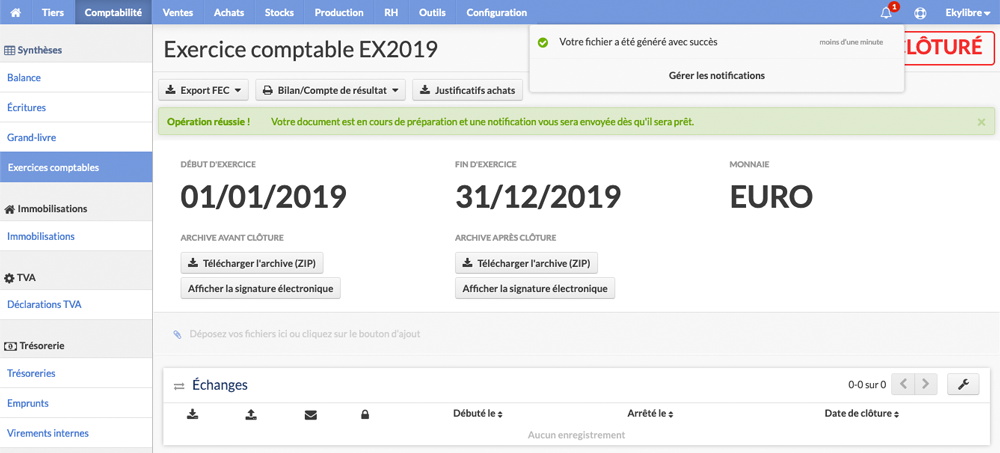
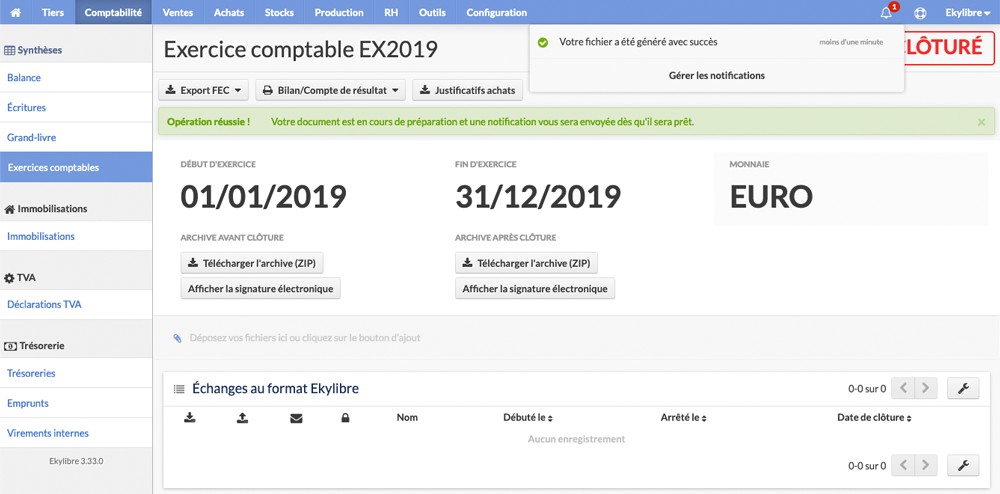
Justif achats + màj Compta

diff --git a/content/fr/chapitre10.html b/content/fr/chapitre10.html
@@ -148,6 +148,7 @@
                            <li><a href="../chapitre6#reception" target="_self">Réception des commandes</a></li>
                            <li><a href="../chapitre6#facturation" target="_self">Facturation des achats</a></li>
                            <li><a href="../chapitre6#decaissements" target="_self">Décaissements et lots de décaissements</a></li>
+						   <li><a href="../chapitre6#justif-achats" target="_self">Justificatifs d'achats</a></li>
                            <li><a href="../chapitre6#stockage" target="_self">Zones de stockage</a></li>
                         </div>
                      </ul>
@@ -553,7 +554,7 @@
          <img src="../images/commun/step6.svg" alt="6" width="52" />
       </div>
       <div class="process-txt">
-         <span class="titre-advice">Affichez les notifications</span>
+         <span class="titre-advice">Affichez la nouvelle notification</span>
          <p>Une fois que la barre d'avancement disparaît, la pastille rouge<img src="../images/commun/marker.svg" alt="Notification" height="20" class="align-icone icone-marge-gauche icone-marge-droite">en haut à droite de la cloche<img src="../images/commun/bell-o-blue.svg" alt="Cloche" height="20" class="align-icone icone-marge-gauche icone-marge-droite">vous indique qu'une opération interne a été effectuée par l'application. Cliquez sur celle-ci pour afficher la notification. En cas d'erreur, vous serez informé&#40;e&#41; de la nature de celle-ci.</p>
          <p class="max-img-process">
             <img src="../images/chapitre10/import-plan6.png" class="contour-img" alt="Affichage notifications" data-action="zoom" />
@@ -697,7 +698,7 @@
          <img src="../images/commun/step6.svg" alt="6" width="52" />
       </div>
       <div class="process-txt">
-         <span class="titre-advice">Affichez les notifications</span>
+         <span class="titre-advice">Affichez la nouvelle notification</span>
          <p>Une fois que la barre d'avancement disparaît, la pastille rouge<img src="../images/commun/marker.svg" alt="Notification" height="20" class="align-icone icone-marge-gauche icone-marge-droite">en haut à droite de la cloche<img src="../images/commun/bell-o-blue.svg" alt="Cloche" height="20" class="align-icone icone-marge-gauche icone-marge-droite">vous indique qu'une opération interne a été effectuée par l'application. Cliquez sur celle-ci pour afficher la notification. En cas d'erreur, vous serez informé&#40;e&#41; de la nature de celle-ci.</p>
          <p class="max-img-process">
             <img src="../images/chapitre10/import-tiers6.png" class="contour-img" alt="Affichage notifications" data-action="zoom" />
@@ -1194,7 +1195,7 @@
          <img src="../images/commun/step6.svg" alt="6" width="52" />
       </div>
       <div class="process-txt">
-         <span class="titre-advice">Affichez les notifications</span>
+         <span class="titre-advice">Affichez la nouvelle notification</span>
          <p>Une fois que la barre d'avancement disparaît, la pastille rouge<img src="../images/commun/marker.svg" alt="Notification" height="20" class="align-icone icone-marge-gauche icone-marge-droite">en haut à droite de la cloche<img src="../images/commun/bell-o-blue.svg" alt="Cloche" height="20" class="align-icone icone-marge-gauche icone-marge-droite">vous indique qu'une opération interne a été effectuée par l'application. Cliquez sur celle-ci pour afficher la notification. En cas d'erreur, vous serez informé&#40;e&#41; de la nature de celle-ci.</p>
          <p class="max-img-process">
             <img src="../images/chapitre10/import-variants6.png" class="contour-img" alt="Affichage notifications" data-action="zoom" />
@@ -1335,7 +1336,7 @@
          <img src="../images/commun/step6.svg" alt="6" width="52" />
       </div>
       <div class="process-txt">
-         <span class="titre-advice">Affichez les notifications</span>
+         <span class="titre-advice">Affichez la nouvelle notification</span>
          <p>Une fois que la barre d'avancement disparaît, la pastille rouge<img src="../images/commun/marker.svg" alt="Notification" height="20" class="align-icone icone-marge-gauche icone-marge-droite">en haut à droite de la cloche<img src="../images/commun/bell-o-blue.svg" alt="Cloche" height="20" class="align-icone icone-marge-gauche icone-marge-droite">vous indique qu'une opération interne a été effectuée par l'application. Cliquez sur celle-ci pour afficher la notification. En cas d'erreur, vous serez informé&#40;e&#41; de la nature de celle-ci.</p>
          <p class="max-img-process">
             <img src="../images/chapitre10/import-equip6.png" class="contour-img" alt="Affichage notifications" data-action="zoom" />
@@ -1482,7 +1483,7 @@
          <img src="../images/commun/step6.svg" alt="6" width="52" />
       </div>
       <div class="process-txt">
-         <span class="titre-advice">Affichez les notifications</span>
+         <span class="titre-advice">Affichez la nouvelle notification</span>
          <p>Une fois que la barre d'avancement disparaît, la pastille rouge<img src="../images/commun/marker.svg" alt="Notification" height="20" class="align-icone icone-marge-gauche icone-marge-droite">en haut à droite de la cloche<img src="../images/commun/bell-o-blue.svg" alt="Cloche" height="20" class="align-icone icone-marge-gauche icone-marge-droite">vous indique qu'une opération interne a été effectuée par l'application. Cliquez sur celle-ci pour afficher la notification. En cas d'erreur, vous serez informé&#40;e&#41; de la nature de celle-ci.</p>
          <p class="max-img-process">
             <img src="../images/chapitre10/import-zones6.png" class="contour-img" alt="Affichage notifications" data-action="zoom" />
@@ -1625,7 +1626,7 @@
          <img src="../images/commun/step6.svg" alt="6" width="52" />
       </div>
       <div class="process-txt">
-         <span class="titre-advice">Affichez les notifications</span>
+         <span class="titre-advice">Affichez la nouvelle notification</span>
          <p>Une fois que la barre d'avancement disparaît, la pastille rouge<img src="../images/commun/marker.svg" alt="Notification" height="20" class="align-icone icone-marge-gauche icone-marge-droite">en haut à droite de la cloche<img src="../images/commun/bell-o-blue.svg" alt="Cloche" height="20" class="align-icone icone-marge-gauche icone-marge-droite">vous indique qu'une opération interne a été effectuée par l'application. Cliquez sur celle-ci pour afficher la notification. En cas d'erreur, vous serez informé&#40;e&#41; de la nature de celle-ci.</p>
          <p class="max-img-process">
             <img src="../images/chapitre10/agro-edi6.png" class="contour-img" alt="Affichage notifications" data-action="zoom" />
@@ -1779,7 +1780,7 @@
          <img src="../images/commun/step7.svg" alt="7" width="52" />
       </div>
       <div class="process-txt">
-         <span class="titre-advice">Affichez les notifications</span>
+         <span class="titre-advice">Affichez la nouvelle notification</span>
          <p>Une fois que la barre d'avancement disparaît, la pastille rouge<img src="../images/commun/marker.svg" alt="Notification" height="20" class="align-icone icone-marge-gauche icone-marge-droite">en haut à droite de la cloche<img src="../images/commun/bell-o-blue.svg" alt="Cloche" height="20" class="align-icone icone-marge-gauche icone-marge-droite">vous indique qu'une opération interne a été effectuée par l'application. Cliquez sur celle-ci pour afficher la notification. En cas d'erreur, vous serez informé&#40;e&#41; de la nature de celle-ci.</p>
          <p class="max-img-process">
             <img src="../images/chapitre10/isapaye9.png" class="contour-img" alt="Affichage notifications" data-action="zoom" />
@@ -1905,7 +1906,7 @@
          <img src="../images/commun/step6.svg" alt="6" width="52" />
       </div>
       <div class="process-txt">
-         <span class="titre-advice">Affichez les notifications</span>
+         <span class="titre-advice">Affichez la nouvelle notification</span>
          <p>Une fois que la barre d'avancement disparaît, la pastille rouge<img src="../images/commun/marker.svg" alt="Notification" height="20" class="align-icone icone-marge-gauche icone-marge-droite">en haut à droite de la cloche<img src="../images/commun/bell-o-blue.svg" alt="Cloche" height="20" class="align-icone icone-marge-gauche icone-marge-droite">vous indique qu'une opération interne a été effectuée par l'application. Cliquez sur celle-ci pour afficher la notification. En cas d'erreur, vous serez informé&#40;e&#41; de la nature de celle-ci.</p>
          <p class="max-img-process">
             <img src="../images/chapitre10/telepac7.png" class="contour-img" alt="Affichage notifications" data-action="zoom" />
@@ -1981,7 +1982,7 @@
          <img src="../images/commun/step4.svg" alt="4" width="52" />
       </div>
       <div class="process-txt">
-         <span class="titre-advice">Affichez les notifications</span>
+         <span class="titre-advice">Affichez la nouvelle notification</span>
          <p>La pastille rouge<img src="../images/commun/marker.svg" alt="Notification" height="20" class="align-icone icone-marge-gauche icone-marge-droite">en haut à droite de la cloche<img src="../images/commun/bell-o-blue.svg" alt="Cloche" height="20" class="align-icone icone-marge-gauche icone-marge-droite">vous indique qu'une opération interne a été effectuée par l'application. Cliquez sur celle-ci pour afficher la notification.</p>
          <p class="max-img-process">
             <img src="../images/chapitre10/regist-interv3.png" class="contour-img" alt="Affichage de la notification" data-action="zoom" />
@@ -2048,7 +2049,7 @@
          <img src="../images/commun/step4.svg" alt="4" width="52" />
       </div>
       <div class="process-txt">
-         <span class="titre-advice">Affichez les notifications</span>
+         <span class="titre-advice">Affichez la nouvelle notification</span>
          <p>La pastille rouge<img src="../images/commun/marker.svg" alt="Notification" height="20" class="align-icone icone-marge-gauche icone-marge-droite">en haut à droite de la cloche<img src="../images/commun/bell-o-blue.svg" alt="Cloche" height="20" class="align-icone icone-marge-gauche icone-marge-droite">vous indique qu'une opération interne a été effectuée par l'application. Cliquez sur celle-ci pour afficher la notification.</p>
          <p class="max-img-process">
             <img src="../images/chapitre10/regist-phyto3.png" class="contour-img" alt="Affichage de la notification" data-action="zoom" />
@@ -2122,7 +2123,7 @@
          <img src="../images/commun/step4.svg" alt="4" width="52" />
       </div>
       <div class="process-txt">
-         <span class="titre-advice">Affichez les notifications</span>
+         <span class="titre-advice">Affichez la nouvelle notification</span>
          <p>La pastille rouge<img src="../images/commun/marker2.svg" alt="Notification" height="20" class="align-icone icone-marge-gauche icone-marge-droite">en haut à droite de la cloche<img src="../images/commun/bell-o-blue.svg" alt="Cloche" height="20" class="align-icone icone-marge-gauche icone-marge-droite">vous indique qu'une opération interne a été effectuée par l'application. Cliquez sur celle-ci pour afficher la&#40;les&#41; notification&#40;s&#41;.</p>
          <p class="max-img-process">
             <img src="../images/chapitre10/fec6.png" class="contour-img" alt="Affichage des notifications" data-action="zoom" />

diff --git a/content/fr/chapitre6.html b/content/fr/chapitre6.html
@@ -148,6 +148,7 @@
                            <li><a href="#reception" target="_self">Réception des commandes</a></li>
                            <li><a href="#facturation" target="_self">Facturation des achats</a></li>
                            <li><a href="#decaissements" target="_self">Décaissements et lots de décaissements</a></li>
+						   <li><a href="#justif-achats" target="_self">Justificatifs d'achats</a></li>
                            <li><a href="#stockage" target="_self">Zones de stockage</a></li>
                         </div>
                      </ul>
@@ -1459,9 +1460,75 @@
             <img src="../images/chapitre6/lots9.png" class="contour-img" alt="Création du nouveau lot" data-action="zoom" />
          </p>
       </div>
+	  <h6>Guide de prise en main • Achats • Justificatifs d'achats</h6>
+      <a class="slice-process" id="justif-achats"></a>
+      <h2 class="texte aerateur">g - Justificatifs d'achats</h2>
+      <p class="texte">Cet export permet de rassembler, dans une archive ZIP, les fichiers PDF énumérant, pour chaque mois, l'ensemble des achats réalisés durant un exercice comptable, avec ou sans les justificatifs joints par glisser-déposer ou attachés lors de la saisie des factures.</p>
+	  <p class="texte">Le processus suivant vous guide pour produire les justificatifs d'achats.</p>
+	  <div class="floating-box process">
+         <img src="../images/commun/step1.svg" alt="1" width="52" />
+      </div>
+      <div class="process-txt">
+         <span class="titre-advice">Accédez aux exercices comptables</span>
+         <p>
+            Cliquez sur le lien "Comptabilité" dans le "Menu principal" ou sur le bouton "Comptabilité" de la page d'accueil&nbsp;:
+         </p>
+         <p align="center"><img src="../images/chapitre6/comptabilite.svg" alt="Comptabilité" width="60"></p>
+         <p>Dans la barre latérale du module, cliquez sur "Exercices comptables" dans la section "Synthèses" symbolisée par l'icône d'un tableau<img src="../images/chapitre6/table.svg" alt="Tableau" height="20" class="align-icone icone-marge-gauche">.</p>
+         <p class="max-img-process">
+            <img src="../images/chapitre6/justif-achats1.png" class="contour-img" alt="Exercices comptables" data-action="zoom" />
+         </p>
+      </div>
+      <br />
+      <div class="floating-box process">
+         <img src="../images/commun/step2.svg" alt="2" width="52" />
+      </div>
+      <div class="process-txt">
+         <span class="titre-advice">Choisissez un exercice comptable</span>
+         <p>Sélectionnez un exercice comptable dans la liste et cliquez sur son code pour l'afficher.</p>
+         <p class="max-img-process">
+            <img src="../images/chapitre6/justif-achats2.png" class="contour-img" alt="Affichage de l'exercice" data-action="zoom" />
+         </p>
+      </div>
+      <br />
+      <div class="floating-box process">
+         <img src="../images/commun/step3.svg" alt="3" width="52" />
+      </div>
+      <div class="process-txt">
+         <span class="titre-advice">Lancez la fabrication de l'archive</span>
+         <p>Cliquez sur le bouton<img src="../images/chapitre6/justif-achats.svg" alt="Justificatifs achats" class="btn-gris icone-marge-gauche icone-marge-droite">en haut à droite de la fenêtre principale pour générer le fichier.</p>
+         <p class="max-img-process">
+            <img src="../images/chapitre6/justif-achats3.png" class="contour-img" alt="Lancement export" data-action="zoom" />
+         </p>
+		 <p>Patientez quelques instants car la fabrication de l'archive peut prendre plus ou moins de temps en fonction du nombre de factures d'achats et de justificatifs à traiter.</p>
+      </div>
+      <br />
+      <div class="floating-box process">
+         <img src="../images/commun/step4.svg" alt="4" width="52" />
+      </div>
+      <div class="process-txt">
+         <span class="titre-advice">Affichez la nouvelle notification</span>
+         <p>Patientez quelques instants. La pastille rouge<img src="../images/commun/marker.svg" alt="Notification" height="20" class="align-icone icone-marge-gauche icone-marge-droite">en haut à droite de la cloche<img src="../images/commun/bell-o-blue.svg" alt="Cloche" height="20" class="align-icone icone-marge-gauche icone-marge-droite">vous indique qu'une opération interne a été effectuée par l'application. Cliquez sur celle-ci pour afficher la notification.</p>
+         <p class="max-img-process">
+            <img src="../images/chapitre6/justif-achats4.png" class="contour-img" alt="Affichage de la notification" data-action="zoom" />
+         </p>
+      </div>
+      <br />
+	  <div class="floating-box process">
+         <img src="../images/commun/step5.svg" alt="5" width="52" />
+      </div>
+      <div class="process-txt">
+         <span class="titre-advice">Obtenez l'archive des justificatifs</span>
+         <p>Cliquez sur le lien "Votre fichier a été généré avec succès" pour obtenir les informations du nouvel export.</p>
+         <p class="max-img-process">
+            <img src="../images/chapitre6/justif-achats5.png" class="contour-img" alt="Archive justificatifs" data-action="zoom" />
+         </p>
+		 <p>Cliquez sur la vignette pour télécharger l'archive ZIP. Cette archive contient un fichier PDF pour chaque mois durant lequel une facture d'achat a été enregistrée. Lorsqu'un justificatif d'achat a été associé à une facture, il est présent dans le document PDF généré. Si aucun justificatif d'achat n'est disponible, les références de la facture sont consignées avec la mention "Aucun justificatif n'est attaché à cette facture".</p>
+         <p>Notez que le fichier reste accessible à tout moment via le lien <a class="avoid-clicks" href="../chapitre10#ged" target="_self">"Mes documents"</a> dans la section "Archives"<img src="../images/commun/archive.svg" alt="Archives" height="20" class="align-icone icone-marge-gauche icone-marge-droite">du module "Outils".</p>
+      </div>
       <h6>Guide de prise en main • Achats • Zones de stockage</h6>
       <a class="slice-process" id="stockage"></a>
-      <h2 class="texte aerateur">g - Zones de stockage</h2>
+      <h2 class="texte aerateur">h - Zones de stockage</h2>
       <p class="texte">Si vous avez omis l'étape de création des bâtiments et des aires de stockage dans l'assistant de démarrage, il est toujours possible d'en ajouter pour permettre les réceptions de marchandises. Il n'est pas nécessaire de dessiner de nouveaux bâtiments mais seulement leurs subdivisions ainsi que les emplacements présentant une importance significative dans l'exploitation &#40;ces zones permettront également l'enregistrement de certaines interventions&#41;.</p>
 	  <p class="texte">Notez que vous pouvez disposer de nouvelles zones de stockage, sans les dessiner, grâce à l'import d'un fichier au format CSV, comme expliqué dans le <a class="avoid-clicks" href="../chapitre10#import-zones" target="_self">chapitre 10 - Outils</a>.</p>
       <p class="texte">

diff --git a/content/fr/chapitre5.html b/content/fr/chapitre5.html
@@ -153,6 +153,7 @@
                            <li><a href="../chapitre6#reception" target="_self">Réception des commandes</a></li>
                            <li><a href="../chapitre6#facturation" target="_self">Facturation des achats</a></li>
                            <li><a href="../chapitre6#decaissements" target="_self">Décaissements et lots de décaissements</a></li>
+						   <li><a href="../chapitre6#justif-achats" target="_self">Justificatifs d'achats</a></li>
                            <li><a href="../chapitre6#stockage" target="_self">Zones de stockage</a></li>
                         </div>
                      </ul>
@@ -1160,7 +1161,7 @@
          <img src="../images/commun/step3.svg" alt="3" width="52" />
       </div>
       <div class="process-txt">
-         <span class="titre-advice">Affichez les notifications</span>
+         <span class="titre-advice">Affichez la nouvelle notification</span>
          <p>Patientez quelques instants. La pastille rouge<img src="../images/commun/marker.svg" alt="Notification" height="20" class="align-icone icone-marge-gauche icone-marge-droite">en haut à droite de la cloche<img src="../images/commun/bell-o-blue.svg" alt="Cloche" height="20" class="align-icone icone-marge-gauche icone-marge-droite">vous indique qu'une opération interne a été effectuée par l'application. Cliquez sur celle-ci pour afficher la notification.</p>
          <p class="max-img-process">
             <img src="../images/chapitre5/centralisateur3.png" class="contour-img" alt="Affichage de la notification" data-action="zoom" />
@@ -1557,8 +1558,8 @@
          <img src="../images/commun/step3.svg" alt="3" width="52" />
       </div>
       <div class="process-txt">
-         <span class="titre-advice">Sélectionnez l'export FEC</span>
-         <p>Cliquez sur le bouton<img src="../images/chapitre5/export-fec.svg" alt="Export FEC" class="btn-gris icone-marge-gauche icone-marge-droite">et sélectionnez, dans la liste déroulante, le format de fichier souhaité.</p>
+         <span class="titre-advice">Sélectionnez le type d'export FEC</span>
+         <p>Cliquez sur le bouton<img src="../images/chapitre5/export-fec.svg" alt="Export FEC" class="btn-gris icone-marge-gauche icone-marge-droite">et choisissez, dans la liste déroulante, le format de fichier souhaité.</p>
          <p>Les abbréviations utilisées sont les suivantes&nbsp;:<br />BA - Bénéfices Agricoles<br />BNC - Bénéfices Non Commerciaux<br />IR - Impôt sur le Revenu</p>
          <p class="max-img-process">
             <img src="../images/chapitre5/exportfec3.png" class="contour-img" alt="Sélection Export FEC" data-action="zoom" />
@@ -1572,7 +1573,7 @@
          <img src="../images/commun/step4.svg" alt="4" width="52" />
       </div>
       <div class="process-txt">
-         <span class="titre-advice">Affichez les notifications</span>
+         <span class="titre-advice">Affichez la nouvelle notification</span>
          <p>Patientez quelques instants. La pastille rouge<img src="../images/commun/marker.svg" alt="Notification" height="20" class="align-icone icone-marge-gauche icone-marge-droite">en haut à droite de la cloche<img src="../images/commun/bell-o-blue.svg" alt="Cloche" height="20" class="align-icone icone-marge-gauche icone-marge-droite">vous indique qu'une opération interne a été effectuée par l'application. Cliquez sur celle-ci pour afficher la notification.</p>
          <p class="max-img-process">
             <img src="../images/chapitre5/exportfec4.png" class="contour-img" alt="Affichage de la notification" data-action="zoom" />
@@ -1588,7 +1589,7 @@
          <p class="max-img-process">
             <img src="../images/chapitre5/exportfec5.png" class="contour-img" alt="Archive FEC - TXT" data-action="zoom" />
          </p>
-		 <p>Cliquez sur la vignette pour télécharger l'archive ZIP. Cette archive contient l'export au format TXT assorti d'un descriptif technique. Cette notice indique l'ensemble des informations nécessaires au traitement des fichiers par l'administration fiscale. Il doit présenter la manière dont il est rempli, avec notamment le nom des champs et le type d'information présent dans chaque champ.</p>
+		 <p>Cliquez sur la vignette pour télécharger l'archive ZIP. Cette archive contient l'export au format TXT assorti d'un descriptif technique. Cette notice présente les grands principes de fonctionnement de la comptabilité dans <strong>Eky</strong>agri et indique l'ensemble des informations nécessaires au traitement des fichiers par l'administration fiscale. Il présente la manière dont ils sont remplis, avec notamment le nom des champs et le type d'information présent dans chaque champ.</p>
 		 <p>En cas de non-conformité, un fichier des erreurs de données est également généré par l'application.</p>
 		 <p>Si le format XML a été choisi pour réaliser l'export, cliquez sur la vignette pour télécharger le document. En cas de non-conformité, il est assorti d'un fichier des erreurs de données et/ou d'un fichier des erreurs de structure.</p>
 		 <p class="max-img-process">
@@ -1643,7 +1644,7 @@
          <img src="../images/commun/step4.svg" alt="4" width="52" />
       </div>
       <div class="process-txt">
-         <span class="titre-advice">Affichez les notifications</span>
+         <span class="titre-advice">Affichez la nouvelle notification</span>
          <p>Patientez quelques instants. La pastille rouge<img src="../images/commun/marker.svg" alt="Notification" height="20" class="align-icone icone-marge-gauche icone-marge-droite">en haut à droite de la cloche<img src="../images/commun/bell-o-blue.svg" alt="Cloche" height="20" class="align-icone icone-marge-gauche icone-marge-droite">vous indique qu'une opération interne a été effectuée par l'application. Cliquez sur celle-ci pour afficher la notification.</p>
          <p class="max-img-process">
             <img src="../images/chapitre5/bilan-cr4.png" class="contour-img" alt="Affichage de la notification" data-action="zoom" />
@@ -3253,7 +3254,7 @@
          <img src="../images/commun/step3.svg" alt="3" width="52" />
       </div>
       <div class="process-txt">
-         <span class="titre-advice">Affichez les notifications</span>
+         <span class="titre-advice">Affichez la nouvelle notification</span>
          <p>Patientez quelques instants. La pastille rouge<img src="../images/commun/marker.svg" alt="Notification" height="20" class="align-icone icone-marge-gauche icone-marge-droite">en haut à droite de la cloche<img src="../images/commun/bell-o-blue.svg" alt="Cloche" height="20" class="align-icone icone-marge-gauche icone-marge-droite">vous indique qu'une opération interne a été effectuée par l'application. Cliquez sur celle-ci pour afficher la notification.</p>
          <p class="max-img-process">
             <img src="../images/chapitre5/etats3.png" class="contour-img" alt="Affichage de la notification" data-action="zoom" />

diff --git a/content/fr/demarrage.html b/content/fr/demarrage.html
@@ -18,7 +18,7 @@
 	  <h1 align="center" class="texte majuscule aerateur-haut aerateur-bas">Guide de prise en main</h1>
       <p align="center"><img src="../images/accueil/icone-doc.png" alt="Documentation Ekylibre" height="100px"></p>
       <p align="center"><img src="../images/accueil/logos-eky.png" alt="Logos Ekylibre" height="80px"></p>
-      <p class="texte">Ce guide a pour but d'aider le nouvel utilisateur à configurer rapidement et correctement les applications développées par Ekylibre &#40;sauf <a href="https://doc.clic.farm/" target="_blank" class="avoid-clicks"><strong>Clic</strong>&#38;Farm</a>&#41; pour son exploitation agricole et de commencer à les utiliser.<br />Cette documentation a été mise à jour le 25 juin 2021. La version au format PDF est datée du 25 juin 2021.</p>
+      <p class="texte">Ce guide a pour but d'aider le nouvel utilisateur à configurer rapidement et correctement les applications développées par Ekylibre &#40;sauf <a href="https://doc.clic.farm/" target="_blank" class="avoid-clicks"><strong>Clic</strong>&#38;Farm</a>&#41; pour son exploitation agricole et de commencer à les utiliser.<br />Cette documentation a été mise à jour le 28 juin 2021. La version au format PDF est datée du 25 juin 2021.</p>
       <div class="info-fond aerateur-haut aerateur-bas">
          <div class="floating-box-info">
             <img src="../images/commun/info.svg" width="100" alt="Info"/>
@@ -226,6 +226,7 @@
                            <li><a href="../chapitre6#reception" target="_self">Réception des commandes</a></li>
                            <li><a href="../chapitre6#facturation" target="_self">Facturation des achats</a></li>
                            <li><a href="../chapitre6#decaissements" target="_self">Décaissements et lots de décaissements</a></li>
+						   <li><a href="../chapitre6#justif-achats" target="_self">Justificatifs d'achats</a></li>
                            <li><a href="../chapitre6#stockage" target="_self">Zones de stockage</a></li>
                         </div>
                      </ul>

diff --git a/content/fr/chapitre4.html b/content/fr/chapitre4.html
@@ -148,6 +148,7 @@
                            <li><a href="../chapitre6#reception" target="_self">Réception des commandes</a></li>
                            <li><a href="../chapitre6#facturation" target="_self">Facturation des achats</a></li>
                            <li><a href="../chapitre6#decaissements" target="_self">Décaissements et lots de décaissements</a></li>
+						   <li><a href="../chapitre6#justif-achats" target="_self">Justificatifs d'achats</a></li>
                            <li><a href="../chapitre6#stockage" target="_self">Zones de stockage</a></li>
                         </div>
                      </ul>
@@ -747,7 +748,7 @@
          <img src="../images/commun/step6.svg" alt="6" width="52" />
       </div>
       <div class="process-txt">
-         <span class="titre-advice">Affichez les notifications</span>
+         <span class="titre-advice">Affichez la nouvelle notification</span>
          <p>Une fois que la barre d'avancement disparaît, la pastille rouge<img src="../images/commun/marker.svg" alt="Notification" height="20" class="align-icone icone-marge-gauche icone-marge-droite">en haut à droite de la cloche<img src="../images/commun/bell-o-blue.svg" alt="Cloche" height="20" class="align-icone icone-marge-gauche icone-marge-droite">vous indique qu'une opération interne a été effectuée par l'application. Cliquez sur celle-ci pour afficher la notification. En cas d'erreur, vous serez informé&#40;e&#41; de la nature de celle-ci.</p>
          <p class="max-img-process">
             <img src="../images/chapitre4/ecran-accueil8.png" class="contour-img" alt="Affichage notifications" data-action="zoom" />

diff --git a/content/fr/ekyviti.html b/content/fr/ekyviti.html
@@ -151,6 +151,7 @@
                            <li><a href="../chapitre6#reception" target="_self">Réception des commandes</a></li>
                            <li><a href="../chapitre6#facturation" target="_self">Facturation des achats</a></li>
                            <li><a href="../chapitre6#decaissements" target="_self">Décaissements et lots de décaissements</a></li>
+						   <li><a href="../chapitre6#justif-achats" target="_self">Justificatifs d'achats</a></li>
                            <li><a href="../chapitre6#stockage" target="_self">Zones de stockage</a></li>
                         </div>
                      </ul>
@@ -520,7 +521,7 @@
          <img src="../images/commun/step6.svg" alt="6" width="52" />
       </div>
       <div class="process-txt">
-         <span class="titre-advice">Affichez les notifications</span>
+         <span class="titre-advice">Affichez la nouvelle notification</span>
          <p>Une fois que la barre d'avancement disparaît, la pastille rouge<img src="../images/commun/marker.svg" alt="Notification" height="20" class="align-icone icone-marge-gauche icone-marge-droite">en haut à droite de la cloche<img src="../images/ekyviti/bell-o-purple.svg" alt="Cloche" height="20" class="align-icone icone-marge-gauche icone-marge-droite">vous indique qu'une opération interne a été effectuée par l'application. Cliquez sur celle-ci pour afficher la notification. En cas d'erreur, vous serez informé&#40;e&#41; de la nature de celle-ci.</p>
          <p class="max-img-process">
             <img src="../images/ekyviti/import-csv7.png" class="contour-img" alt="Affichage notifications" data-action="zoom" />

diff --git a/content/fr/chapitre1.html b/content/fr/chapitre1.html
@@ -152,6 +152,7 @@
                            <li><a href="../chapitre6#reception" target="_self">Réception des commandes</a></li>
                            <li><a href="../chapitre6#facturation" target="_self">Facturation des achats</a></li>
                            <li><a href="../chapitre6#decaissements" target="_self">Décaissements et lots de décaissements</a></li>
+						   <li><a href="../chapitre6#justif-achats" target="_self">Justificatifs d'achats</a></li>
                            <li><a href="../chapitre6#stockage" target="_self">Zones de stockage</a></li>
                         </div>
                      </ul>

diff --git a/content/fr/chapitre2.html b/content/fr/chapitre2.html
@@ -148,6 +148,7 @@
                            <li><a href="../chapitre6#reception" target="_self">Réception des commandes</a></li>
                            <li><a href="../chapitre6#facturation" target="_self">Facturation des achats</a></li>
                            <li><a href="../chapitre6#decaissements" target="_self">Décaissements et lots de décaissements</a></li>
+						   <li><a href="../chapitre6#justif-achats" target="_self">Justificatifs d'achats</a></li>
                            <li><a href="../chapitre6#stockage" target="_self">Zones de stockage</a></li>
                         </div>
                      </ul>

diff --git a/content/fr/chapitre3.html b/content/fr/chapitre3.html
@@ -148,6 +148,7 @@
                            <li><a href="../chapitre6#reception" target="_self">Réception des commandes</a></li>
                            <li><a href="../chapitre6#facturation" target="_self">Facturation des achats</a></li>
                            <li><a href="../chapitre6#decaissements" target="_self">Décaissements et lots de décaissements</a></li>
+						   <li><a href="../chapitre6#justif-achats" target="_self">Justificatifs d'achats</a></li>
                            <li><a href="../chapitre6#stockage" target="_self">Zones de stockage</a></li>
                         </div>
                      </ul>

diff --git a/content/fr/chapitre7.html b/content/fr/chapitre7.html
@@ -148,6 +148,7 @@
                            <li><a href="../chapitre6#reception" target="_self">Réception des commandes</a></li>
                            <li><a href="../chapitre6#facturation" target="_self">Facturation des achats</a></li>
                            <li><a href="../chapitre6#decaissements" target="_self">Décaissements et lots de décaissements</a></li>
+						   <li><a href="../chapitre6#justif-achats" target="_self">Justificatifs d'achats</a></li>
                            <li><a href="../chapitre6#stockage" target="_self">Zones de stockage</a></li>
                         </div>
                      </ul>

diff --git a/content/fr/chapitre8.html b/content/fr/chapitre8.html
@@ -153,6 +153,7 @@
                            <li><a href="../chapitre6#reception" target="_self">Réception des commandes</a></li>
                            <li><a href="../chapitre6#facturation" target="_self">Facturation des achats</a></li>
                            <li><a href="../chapitre6#decaissements" target="_self">Décaissements et lots de décaissements</a></li>
+						   <li><a href="../chapitre6#justif-achats" target="_self">Justificatifs d'achats</a></li>
                            <li><a href="../chapitre6#stockage" target="_self">Zones de stockage</a></li>
                         </div>
                      </ul>

diff --git a/content/fr/chapitre9.html b/content/fr/chapitre9.html
@@ -147,6 +147,7 @@
                            <li><a href="../chapitre6#reception" target="_self">Réception des commandes</a></li>
                            <li><a href="../chapitre6#facturation" target="_self">Facturation des achats</a></li>
                            <li><a href="../chapitre6#decaissements" target="_self">Décaissements et lots de décaissements</a></li>
+						   <li><a href="../chapitre6#justif-achats" target="_self">Justificatifs d'achats</a></li>
                            <li><a href="../chapitre6#stockage" target="_self">Zones de stockage</a></li>
                         </div>
                      </ul>
